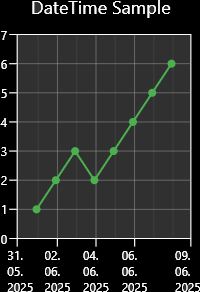
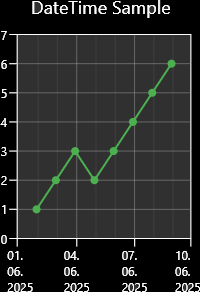
v0.1.7: Better grid. More documentation.

diff --git a/lib/src/ChartStyle.freezed.dart b/lib/src/ChartStyle.freezed.dart
@@ -24,6 +24,7 @@ mixin _$ChartStyle {
   Color get dataTipBackgroundColorDark;
   Color get gridColor;
   Color get gridColorDark;
+  bool get invertX;
   bool get invertY;
   double get lineWidth;
   bool get showTicksBottom;
@@ -65,6 +66,7 @@ mixin _$ChartStyle {
                 other.gridColor == gridColor) &&
             (identical(other.gridColorDark, gridColorDark) ||
                 other.gridColorDark == gridColorDark) &&
+            (identical(other.invertX, invertX) || other.invertX == invertX) &&
             (identical(other.invertY, invertY) || other.invertY == invertY) &&
             (identical(other.lineWidth, lineWidth) ||
                 other.lineWidth == lineWidth) &&
@@ -94,6 +96,7 @@ mixin _$ChartStyle {
       dataTipBackgroundColorDark,
       gridColor,
       gridColorDark,
+      invertX,
       invertY,
       lineWidth,
       showTicksBottom,
@@ -105,7 +108,7 @@ mixin _$ChartStyle {
 
   @override
   String toString() {
-    return 'ChartStyle(devicePixelRatio: $devicePixelRatio, fontSize: $fontSize, pointRadius: $pointRadius, borderColor: $borderColor, borderColorDark: $borderColorDark, dataTipBackgroundColor: $dataTipBackgroundColor, dataTipBackgroundColorDark: $dataTipBackgroundColorDark, gridColor: $gridColor, gridColorDark: $gridColorDark, invertY: $invertY, lineWidth: $lineWidth, showTicksBottom: $showTicksBottom, showTicksLeft: $showTicksLeft, showTicksRight: $showTicksRight, showTicksTop: $showTicksTop, textColor: $textColor, textColorDark: $textColorDark)';
+    return 'ChartStyle(devicePixelRatio: $devicePixelRatio, fontSize: $fontSize, pointRadius: $pointRadius, borderColor: $borderColor, borderColorDark: $borderColorDark, dataTipBackgroundColor: $dataTipBackgroundColor, dataTipBackgroundColorDark: $dataTipBackgroundColorDark, gridColor: $gridColor, gridColorDark: $gridColorDark, invertX: $invertX, invertY: $invertY, lineWidth: $lineWidth, showTicksBottom: $showTicksBottom, showTicksLeft: $showTicksLeft, showTicksRight: $showTicksRight, showTicksTop: $showTicksTop, textColor: $textColor, textColorDark: $textColorDark)';
   }
 }
 
@@ -125,6 +128,7 @@ abstract mixin class $ChartStyleCopyWith<$Res> {
       Color dataTipBackgroundColorDark,
       Color gridColor,
       Color gridColorDark,
+      bool invertX,
       bool invertY,
       double lineWidth,
       bool showTicksBottom,
@@ -156,6 +160,7 @@ class _$ChartStyleCopyWithImpl<$Res> implements $ChartStyleCopyWith<$Res> {
     Object? dataTipBackgroundColorDark = null,
     Object? gridColor = null,
     Object? gridColorDark = null,
+    Object? invertX = null,
     Object? invertY = null,
     Object? lineWidth = null,
     Object? showTicksBottom = null,
@@ -202,6 +207,10 @@ class _$ChartStyleCopyWithImpl<$Res> implements $ChartStyleCopyWith<$Res> {
           ? _self.gridColorDark
           : gridColorDark // ignore: cast_nullable_to_non_nullable
               as Color,
+      invertX: null == invertX
+          ? _self.invertX
+          : invertX // ignore: cast_nullable_to_non_nullable
+              as bool,
       invertY: null == invertY
           ? _self.invertY
           : invertY // ignore: cast_nullable_to_non_nullable
@@ -251,6 +260,7 @@ class _ChartStyle implements ChartStyle {
       this.dataTipBackgroundColorDark = Colors.black,
       this.gridColor = Colors.grey,
       this.gridColorDark = Colors.grey,
+      this.invertX = false,
       this.invertY = false,
       this.lineWidth = 2,
       this.showTicksBottom = false,
@@ -284,6 +294,9 @@ class _ChartStyle implements ChartStyle {
   @override
   @JsonKey()
   final Color gridColorDark;
+  @override
+  @JsonKey()
+  final bool invertX;
   @override
   @JsonKey()
   final bool invertY;
@@ -342,6 +355,7 @@ class _ChartStyle implements ChartStyle {
                 other.gridColor == gridColor) &&
             (identical(other.gridColorDark, gridColorDark) ||
                 other.gridColorDark == gridColorDark) &&
+            (identical(other.invertX, invertX) || other.invertX == invertX) &&
             (identical(other.invertY, invertY) || other.invertY == invertY) &&
             (identical(other.lineWidth, lineWidth) ||
                 other.lineWidth == lineWidth) &&
@@ -371,6 +385,7 @@ class _ChartStyle implements ChartStyle {
       dataTipBackgroundColorDark,
       gridColor,
       gridColorDark,
+      invertX,
       invertY,
       lineWidth,
       showTicksBottom,
@@ -382,7 +397,7 @@ class _ChartStyle implements ChartStyle {
 
   @override
   String toString() {
-    return 'ChartStyle(devicePixelRatio: $devicePixelRatio, fontSize: $fontSize, pointRadius: $pointRadius, borderColor: $borderColor, borderColorDark: $borderColorDark, dataTipBackgroundColor: $dataTipBackgroundColor, dataTipBackgroundColorDark: $dataTipBackgroundColorDark, gridColor: $gridColor, gridColorDark: $gridColorDark, invertY: $invertY, lineWidth: $lineWidth, showTicksBottom: $showTicksBottom, showTicksLeft: $showTicksLeft, showTicksRight: $showTicksRight, showTicksTop: $showTicksTop, textColor: $textColor, textColorDark: $textColorDark)';
+    return 'ChartStyle(devicePixelRatio: $devicePixelRatio, fontSize: $fontSize, pointRadius: $pointRadius, borderColor: $borderColor, borderColorDark: $borderColorDark, dataTipBackgroundColor: $dataTipBackgroundColor, dataTipBackgroundColorDark: $dataTipBackgroundColorDark, gridColor: $gridColor, gridColorDark: $gridColorDark, invertX: $invertX, invertY: $invertY, lineWidth: $lineWidth, showTicksBottom: $showTicksBottom, showTicksLeft: $showTicksLeft, showTicksRight: $showTicksRight, showTicksTop: $showTicksTop, textColor: $textColor, textColorDark: $textColorDark)';
   }
 }
 
@@ -404,6 +419,7 @@ abstract mixin class _$ChartStyleCopyWith<$Res>
       Color dataTipBackgroundColorDark,
       Color gridColor,
       Color gridColorDark,
+      bool invertX,
       bool invertY,
       double lineWidth,
       bool showTicksBottom,
@@ -435,6 +451,7 @@ class __$ChartStyleCopyWithImpl<$Res> implements _$ChartStyleCopyWith<$Res> {
     Object? dataTipBackgroundColorDark = null,
     Object? gridColor = null,
     Object? gridColorDark = null,
+    Object? invertX = null,
     Object? invertY = null,
     Object? lineWidth = null,
     Object? showTicksBottom = null,
@@ -481,6 +498,10 @@ class __$ChartStyleCopyWithImpl<$Res> implements _$ChartStyleCopyWith<$Res> {
           ? _self.gridColorDark
           : gridColorDark // ignore: cast_nullable_to_non_nullable
               as Color,
+      invertX: null == invertX
+          ? _self.invertX
+          : invertX // ignore: cast_nullable_to_non_nullable
+              as bool,
       invertY: null == invertY
           ? _self.invertY
           : invertY // ignore: cast_nullable_to_non_nullable

diff --git a/lib/src/Generics/GenericLineChartPainter.dart b/lib/src/Generics/GenericLineChartPainter.dart
@@ -50,6 +50,7 @@ class GenericLineChartPainter<TX, TY> extends CustomPainter
     final String dataTipFormat2;
     final DoubleChartData doubleData;
     final double highlightDistance;
+    final bool invertX;
     final bool invertY;
     final Offset? pointerPosition;
     final bool showTicksBottom;
@@ -67,6 +68,7 @@ class GenericLineChartPainter<TX, TY> extends CustomPainter
         this.dataTipFormat = '%s\nX: %x\nY: %y',
         this.dataTipFormat2 = '%s',
         this.highlightDistance = 20,
+        this.invertX = false,
         this.invertY = false,
         this.pointerPosition,
         this.showTicksBottom = true,
@@ -732,59 +734,39 @@ class GenericLineChartPainter<TX, TY> extends CustomPainter
         if (tickPainters.length <= 2)
             return tickPainters;
 
-        final bool invertLoop = axis == Axis.vertical && invertY;
+        final bool invertLoop = axis == Axis.horizontal && invertX || axis == Axis.vertical && invertY;
+
+        final double finalTextPositionMin = axis == Axis.horizontal
+            ? graphMinMax.minX - additionalSpaceForLabelX + tickPainters.first.textWidth
+            : graphMinMax.minY - additionalSpaceForLabelY + tickPainters.first.textHeight;
+
+        final double finalTextPositionMax = axis == Axis.horizontal
+            ? graphMinMax.maxX + additionalSpaceForLabelX - tickPainters.last.textWidth
+            : graphMinMax.maxY + additionalSpaceForLabelY - tickPainters.last.textHeight;
 
         // Find an interval that yields no overlaps and remove non-fitting text painters
         bool foundInterval = false;
         int interval;
         for (interval = 1; interval <= 100; interval++)
         {
-            double textPositionMin = axis == Axis.horizontal 
-                ? graphMinMax.minX - additionalSpaceForLabelX + tickPainters.first.textWidth
-                : graphMinMax.minY - additionalSpaceForLabelY + tickPainters.first.textHeight;
-
-            double textPositionMax = axis == Axis.horizontal
-                ? graphMinMax.maxX + additionalSpaceForLabelX - tickPainters.last.textWidth
-                : graphMinMax.maxY + additionalSpaceForLabelY - tickPainters.last.textHeight;
-
+            double currentTextPositionMin = finalTextPositionMin;
+            double currentTextPositionMax = finalTextPositionMax;
             bool overlaps = false;
             for (int i = interval; i < tickPainters.length - 1; i += interval)
             {
                 final int actualIndex = invertLoop ? tickPainters.length - 1 - i : i;
                 final PositionedTextPainter<T> currentPainter = tickPainters[actualIndex];
 
-                if (currentPainter.textStart < textPositionMin)
+                if (currentPainter.textStart < currentTextPositionMin || currentPainter.textEnd > currentTextPositionMax)
                 {
-                    logWarning('Overlap MIN found: $axis');
                     overlaps = true;
                     break;
                 }
 
-                if (currentPainter.textEnd > textPositionMax)
-                {
-                    logWarning('Overlap MAX found: $axis');
-                    overlaps = true;
-                    break;
-                }
-
-                if (axis == Axis.horizontal)
-                {
-                    /*logDebug('    X textPositionMin: $textPositionMin => ${currentPainter.textEnd.ceilToDouble() + paddingBetweenTicksX}');
-                    textPositionMin = currentPainter.textEnd.ceilToDouble() + paddingBetweenTicksX;*/
-                }
-                else
-                {
-                    if (invertY)
-                    {
-                        /*logDebug('    Y textPositionMin: $textPositionMin => ${currentPainter.textEnd.ceilToDouble() + paddingBetweenTicksY}');
-                        textPositionMin = currentPainter.textEnd.ceilToDouble() + paddingBetweenTicksY;*/
-                    }
-                    else 
-                    {
-                        logDebug('    Y textPositionMax: $textPositionMax => ${currentPainter.textStart.floorToDouble() - paddingBetweenTicksY}');
-                        textPositionMax = currentPainter.textStart.floorToDouble() - paddingBetweenTicksY;
-                    }
-                }
+                if (axis == Axis.horizontal && !invertX)
+                    currentTextPositionMin = currentPainter.textEnd.ceilToDouble() + paddingBetweenTicksX;
+                else if (axis == Axis.vertical && !invertY)
+                    currentTextPositionMax = currentPainter.textStart.floorToDouble() - paddingBetweenTicksY;
             }
 
             if (!overlaps)
@@ -799,10 +781,11 @@ class GenericLineChartPainter<TX, TY> extends CustomPainter
 
         for (int i = 0; i < tickPainters.length - 1; i++)
         {
-            final int actualIndex = invertLoop ? tickPainters.length - 1 - i : i;
-
-            if (i % interval != 0)
+            if (i % interval != 0) 
+            {
+                final int actualIndex = invertLoop ? tickPainters.length - 1 - i : i;
                 tickPainters[actualIndex] = tickPainters[actualIndex].copyWith(textPainter: null);
+            }
         }
 
         return tickPainters;

diff --git a/widgetbook/lib/UseCases/DoubleLineChart.dart b/widgetbook/lib/UseCases/DoubleLineChart.dart
@@ -32,9 +32,17 @@ Widget buildDoubleChartForTwoLinesTwoDots(BuildContext context)
 Widget buildDoubleChartForOneLine(BuildContext context)
 => _buildChart(context, '1 line', _createDoubleChartDataForOneLine(context));
 
-@UseCase(path: '', name: '1 line, inverted', type: DoubleLineChart)
-Widget buildDoubleChartForOneLineInverted(BuildContext context)
-=> _buildChart(context, '1 line, inverted', _createDoubleChartDataForOneLine(context, invert: true));
+@UseCase(path: '', name: '1 line, X inverted', type: DoubleLineChart)
+Widget buildDoubleChartForOneLineInvertedX(BuildContext context)
+=> _buildChart(context, '1 line, X inverted', _createDoubleChartDataForOneLine(context, invertX: true), invertX: true);
+
+@UseCase(path: '', name: '1 line, Y inverted', type: DoubleLineChart)
+Widget buildDoubleChartForOneLineInvertedY(BuildContext context)
+=> _buildChart(context, '1 line, Y inverted', _createDoubleChartDataForOneLine(context, invertY: true), invertY: true);
+
+@UseCase(path: '', name: '1 line, All inverted', type: DoubleLineChart)
+Widget buildDoubleChartForOneLineInvertedAll(BuildContext context)
+=> _buildChart(context, '1 line, All inverted', _createDoubleChartDataForOneLine(context, invertX: true, invertY: true), invertX: true, invertY: true);
 
 @UseCase(path: '', name: '1 line, 1 dot', type: DoubleLineChart)
 Widget buildDoubleChartForOneLineOneDot(BuildContext context)
@@ -109,12 +117,13 @@ DoubleChartData _createDoubleChartDataForOneLineOneDot(BuildContext context)
     doublePointLists: <List<DoublePoint>>[_createDoublePointsForLine1(), _createDoublePointsForDot1()]
 );
 
-DoubleChartData _createDoubleChartDataForOneLine(BuildContext context, {bool invert = false})
+DoubleChartData _createDoubleChartDataForOneLine(BuildContext context, {bool invertX = false, bool invertY = false})
 => _createDoubleChartData(
     context,
     colors: <Color>[Colors.red],
     doublePointLists: <List<DoublePoint>>[_createDoublePointsForLine1()],
-    invert: invert
+    invertX: invertX,
+    invertY: invertY
 );
 
 // Raw data
@@ -180,7 +189,8 @@ DoubleChartData _createDoubleChartData(
         int rangeStepsY = 3,
         int rangeInitialValueX = 10,
         int rangeInitialValueY = 10,
-        bool invert = false
+        bool invertX = false,
+        bool invertY = false
     }
 )
 {
@@ -190,7 +200,7 @@ DoubleChartData _createDoubleChartData(
             => DoubleDataSeries(
                 colors[index],
                 'Data Series #${index + 1}', 
-                points.map((DoublePoint dp) => invert ? DoublePoint(dp.x, -dp.y) : dp).toImmutableList()
+                points.map((DoublePoint dp) => DoublePoint(invertX ? -dp.x : dp.x, invertY ? -dp.y : dp.y)).toImmutableList()
             )
         )
         .toList();
@@ -199,20 +209,20 @@ DoubleChartData _createDoubleChartData(
     final double rangeY = context.knobs.int.slider(label: 'Range Y', initialValue: rangeInitialValueY, min: rangeMinY, max: rangeMaxY, divisions: rangeStepsY).toDouble();
     return DoubleChartData(
         dataSeriesList: convertedDoubleDataSeriesList.toImmutableList(),
-        toolsX: DoubleTools(const DoubleFormatter(0), const DoubleFormatter(0)),
-        toolsY: DoubleTools(DoubleFormatter(0, invert: invert), DoubleFormatter(0, invert: invert)),
+        toolsX: DoubleTools(DoubleFormatter(0, invert: invertX), DoubleFormatter(0, invert: invertX)),
+        toolsY: DoubleTools(DoubleFormatter(0, invert: invertY), DoubleFormatter(0, invert: invertY)),
         minMax: DoubleMinMax(
-            minX: minX,
-            maxX: rangeX,
-            minY: invert ? -rangeY : minY,
-            maxY: invert ? minY : rangeY
+            minX: invertX ? -rangeX : minX,
+            maxX: invertX ? minX : rangeX,
+            minY: invertY ? -rangeY : minY,
+            maxY: invertY ? minY : rangeY
         )
     );
 }
 
 //
 
-Widget _buildChart(BuildContext context, String title, DoubleChartData data)
+Widget _buildChart(BuildContext context, String title, DoubleChartData data, {bool invertX = false, bool invertY = false})
 {
     final bool showLabelBottom = context.knobs.boolean(label: 'Show label bottom', initialValue: true);
     final bool showLabelLeft = context.knobs.boolean(label: 'Show label left', initialValue: true);
@@ -235,6 +245,8 @@ Widget _buildChart(BuildContext context, String title, DoubleChartData data)
     final ChartStyle style = ChartStyle(
         devicePixelRatio: 1,
         fontSize: 12,
+        invertX: invertX,
+        invertY: invertY,
         pointRadius: 4,
         showTicksBottom: showTicksBottom,
         showTicksLeft: showTicksLeft,

diff --git a/widgetbook/lib/main.directories.g.dart b/widgetbook/lib/main.directories.g.dart
@@ -83,8 +83,16 @@ final directories = <_i1.WidgetbookNode>[
         builder: _i3.buildDoubleChartForOneLineOneDot,
       ),
       _i1.WidgetbookUseCase(
-        name: '1 line, inverted',
-        builder: _i3.buildDoubleChartForOneLineInverted,
+        name: '1 line, All inverted',
+        builder: _i3.buildDoubleChartForOneLineInvertedAll,
+      ),
+      _i1.WidgetbookUseCase(
+        name: '1 line, X inverted',
+        builder: _i3.buildDoubleChartForOneLineInvertedX,
+      ),
+      _i1.WidgetbookUseCase(
+        name: '1 line, Y inverted',
+        builder: _i3.buildDoubleChartForOneLineInvertedY,
       ),
       _i1.WidgetbookUseCase(
         name: '2 dots',

diff --git a/lib/src/Generics/GenericLineChart.dart b/lib/src/Generics/GenericLineChart.dart
@@ -75,6 +75,7 @@ class _GenericLineChartState<TX, TY, TD extends GenericChartData<TX, TY>> extend
                         customData: _customData,
                         dataTipFormat: widget.info.dataTipFormat,
                         doubleData: _doubleData,
+                        invertX: widget.style.invertX,
                         invertY:  widget.style.invertY,
                         pointerPosition: _lastPosition,
                         showTicksBottom: widget.style.showTicksBottom,

diff --git a/lib/src/ChartStyle.dart b/lib/src/ChartStyle.dart
@@ -17,6 +17,7 @@ abstract class ChartStyle with _$ChartStyle
         @Default(Colors.black) Color dataTipBackgroundColorDark,
         @Default(Colors.grey) Color gridColor,
         @Default(Colors.grey) Color gridColorDark,
+        @Default(false) bool invertX,
         @Default(false) bool invertY,
         @Default(2) double lineWidth,
         @Default(false) bool showTicksBottom,

diff --git a/TODO.md b/TODO.md
@@ -1,9 +1,8 @@
 # TODO
 
-- Determine interval for ticks
-
 # DONE
 - Draw first and last tick
 - Only draw ticks and labels when enabled
 - Detect if highlight possible first, then draw not-highlighted lines thinner
 - Highlight when close to line
+- Determine interval for ticks
